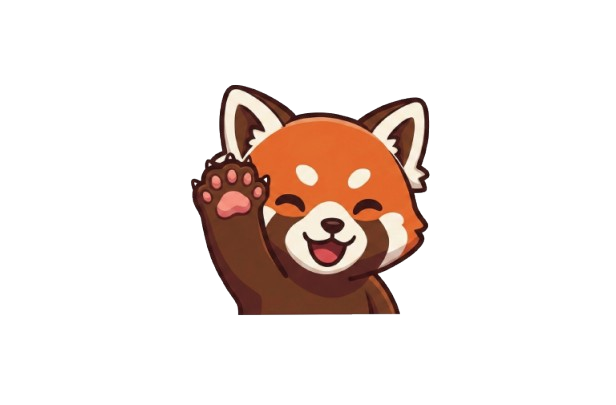
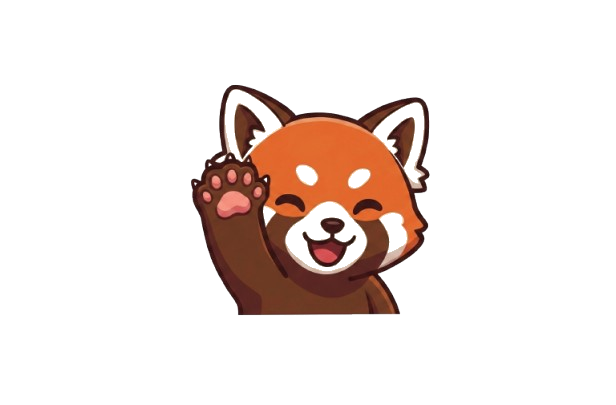
update background maskot

diff --git a/public/belajar-seru.html b/public/belajar-seru.html
@@ -106,7 +106,7 @@
 <div class="page active" id="page-landing">
   <nav class="navbar">
     <div class="logo">
-      <img src="/assets/maskot.png" alt="maskot" class="logo-maskot" style="width:64px;height:64px;object-fit:contain;flex-shrink:0">
+      <img src="/assets/maskot.png?v=2" alt="maskot" class="logo-maskot" style="width:64px;height:64px;object-fit:contain;flex-shrink:0">
       KitaBelajar
     </div>
     <div class="nav-links">
@@ -129,7 +129,7 @@
             <div class="hero-bubble bubble-1">Ayo belajar! 📚</div>
             <div class="hero-bubble bubble-2">Seru banget! ✨</div>
             <div class="hero-bubble bubble-3">Kamu pasti bisa! 💪</div>
-            <img src="/assets/maskot.png" alt="Maskot KitaBelajar" class="maskot-img"
+            <img src="/assets/maskot.png?v=2" alt="Maskot KitaBelajar" class="maskot-img"
               style="width:320px;height:320px;object-fit:contain;display:block">
           </div>
         </div>
@@ -192,7 +192,7 @@
 <!-- ========== LUPA SANDI ========== -->
 <div class="page" id="page-forgot">
   <nav class="navbar">
-    <div class="logo"><img src="/assets/maskot.png" alt="maskot" class="logo-maskot" style="width:64px;height:64px;object-fit:contain;flex-shrink:0"> KitaBelajar</div>
+    <div class="logo"><img src="/assets/maskot.png?v=2" alt="maskot" class="logo-maskot" style="width:64px;height:64px;object-fit:contain;flex-shrink:0"> KitaBelajar</div>
     <div class="nav-links">
       <button class="nav-btn back" onclick="showPage('page-login')">← Kembali</button>
     </div>
@@ -248,7 +248,7 @@
 <!-- ========== RESET SANDI (via link lama — tetap untuk kompatibilitas) ========== -->
 <div class="page" id="page-reset">
   <nav class="navbar">
-    <div class="logo"><img src="/assets/maskot.png" alt="maskot" class="logo-maskot" style="width:64px;height:64px;object-fit:contain;flex-shrink:0"> KitaBelajar</div>
+    <div class="logo"><img src="/assets/maskot.png?v=2" alt="maskot" class="logo-maskot" style="width:64px;height:64px;object-fit:contain;flex-shrink:0"> KitaBelajar</div>
   </nav>
   <div class="login-wrap">
     <div class="login-card">
@@ -270,7 +270,7 @@
 <!-- ========== REGISTER ========== -->
 <div class="page" id="page-register">
   <nav class="navbar">
-    <div class="logo"><img src="/assets/maskot.png" alt="maskot" class="logo-maskot" style="width:64px;height:64px;object-fit:contain;flex-shrink:0"> KitaBelajar</div>
+    <div class="logo"><img src="/assets/maskot.png?v=2" alt="maskot" class="logo-maskot" style="width:64px;height:64px;object-fit:contain;flex-shrink:0"> KitaBelajar</div>
     <div class="nav-links">
       <button class="nav-btn back" onclick="showPage('page-login')">← Kembali</button>
     </div>
@@ -316,7 +316,7 @@
 <!-- ========== DASHBOARD MURID ========== -->
 <div class="page" id="page-murid">
   <nav class="navbar">
-    <div class="logo"><img src="/assets/maskot.png" alt="maskot" class="logo-maskot" style="width:64px;height:64px;object-fit:contain;flex-shrink:0"> KitaBelajar</div>
+    <div class="logo"><img src="/assets/maskot.png?v=2" alt="maskot" class="logo-maskot" style="width:64px;height:64px;object-fit:contain;flex-shrink:0"> KitaBelajar</div>
     <div class="nav-links">
       <button onclick="bukaProfileMurid()" style="display:flex;align-items:center;gap:8px;background:none;border:2px solid #eee;padding:7px 14px;border-radius:50px;font-family:Nunito,sans-serif;font-weight:700;font-size:13px;cursor:pointer;transition:all 0.2s" onmouseover="this.style.background='#F8F9FA'" onmouseout="this.style.background='none'">
         <span id="murid-nav-avatar">🦁</span>
@@ -397,7 +397,7 @@
 <!-- ========== DASHBOARD ORANGTUA ========== -->
 <div class="page" id="page-orangtua">
   <nav class="navbar">
-    <div class="logo"><img src="/assets/maskot.png" alt="maskot" class="logo-maskot" style="width:64px;height:64px;object-fit:contain;flex-shrink:0"> KitaBelajar</div>
+    <div class="logo"><img src="/assets/maskot.png?v=2" alt="maskot" class="logo-maskot" style="width:64px;height:64px;object-fit:contain;flex-shrink:0"> KitaBelajar</div>
     <div class="nav-links">
       <span style="font-size:13px;font-weight:700;color:var(--muted)" id="ot-nav-name">Orangtua</span>
       <button class="nav-btn back" onclick="doLogout()">← Keluar</button>
@@ -420,7 +420,7 @@
 <!-- ========== DETAIL AKTIVITAS ANAK (ORANGTUA) ========== -->
 <div class="page" id="page-orangtua-detail">
   <nav class="navbar">
-    <div class="logo"><img src="/assets/maskot.png" alt="maskot" class="logo-maskot" style="width:64px;height:64px;object-fit:contain;flex-shrink:0"> KitaBelajar</div>
+    <div class="logo"><img src="/assets/maskot.png?v=2" alt="maskot" class="logo-maskot" style="width:64px;height:64px;object-fit:contain;flex-shrink:0"> KitaBelajar</div>
     <div class="nav-links">
       <button class="nav-btn back" onclick="showPage('page-orangtua');loadOrangtuaDashboard()">← Kembali</button>
     </div>
@@ -434,7 +434,7 @@
 
 <div class="page" id="page-guru">
   <nav class="navbar">
-    <div class="logo"><img src="/assets/maskot.png" alt="maskot" class="logo-maskot" style="width:64px;height:64px;object-fit:contain;flex-shrink:0"> KitaBelajar</div>
+    <div class="logo"><img src="/assets/maskot.png?v=2" alt="maskot" class="logo-maskot" style="width:64px;height:64px;object-fit:contain;flex-shrink:0"> KitaBelajar</div>
     <div class="nav-links">
       <button onclick="bukaProfileGuru()" style="display:flex;align-items:center;gap:8px;background:none;border:2px solid #eee;padding:7px 14px;border-radius:50px;font-family:Nunito,sans-serif;font-weight:700;font-size:13px;cursor:pointer;transition:all 0.2s" onmouseover="this.style.background='#F8F9FA'" onmouseout="this.style.background='none'">
         <span id="guru-nav-avatar">👩🏫</span>
@@ -8297,7 +8297,7 @@ function zepReset() {
 <!-- ========== PROFILE & SETTINGS MURID ========== -->
 <div class="page" id="page-profile-murid">
   <nav class="navbar">
-    <div class="logo"><img src="/assets/maskot.png" alt="maskot" class="logo-maskot" style="width:64px;height:64px;object-fit:contain;flex-shrink:0"> KitaBelajar</div>
+    <div class="logo"><img src="/assets/maskot.png?v=2" alt="maskot" class="logo-maskot" style="width:64px;height:64px;object-fit:contain;flex-shrink:0"> KitaBelajar</div>
     <div class="nav-links">
       <button class="nav-btn back" onclick="showPage('page-murid')">← Kembali</button>
     </div>
@@ -8369,7 +8369,7 @@ function zepReset() {
 <!-- ========== PROFILE & SETTINGS GURU ========== -->
 <div class="page" id="page-profile-guru">
   <nav class="navbar">
-    <div class="logo"><img src="/assets/maskot.png" alt="maskot" class="logo-maskot" style="width:64px;height:64px;object-fit:contain;flex-shrink:0"> KitaBelajar</div>
+    <div class="logo"><img src="/assets/maskot.png?v=2" alt="maskot" class="logo-maskot" style="width:64px;height:64px;object-fit:contain;flex-shrink:0"> KitaBelajar</div>
     <div class="nav-links">
       <button class="nav-btn back" onclick="showPage('page-guru')">← Kembali</button>
     </div>
@@ -8458,7 +8458,7 @@ function zepReset() {
 <!-- ========== ERROR LOG ADMIN (hanya guru) ========== -->
 <div class="page" id="page-error-log">
   <nav class="navbar">
-    <div class="logo"><img src="/assets/maskot.png" alt="maskot" class="logo-maskot" style="width:64px;height:64px;object-fit:contain;flex-shrink:0"> KitaBelajar</div>
+    <div class="logo"><img src="/assets/maskot.png?v=2" alt="maskot" class="logo-maskot" style="width:64px;height:64px;object-fit:contain;flex-shrink:0"> KitaBelajar</div>
     <div class="nav-links">
       <button class="nav-btn back" onclick="loadGuruDashboard()">← Kembali</button>
     </div>